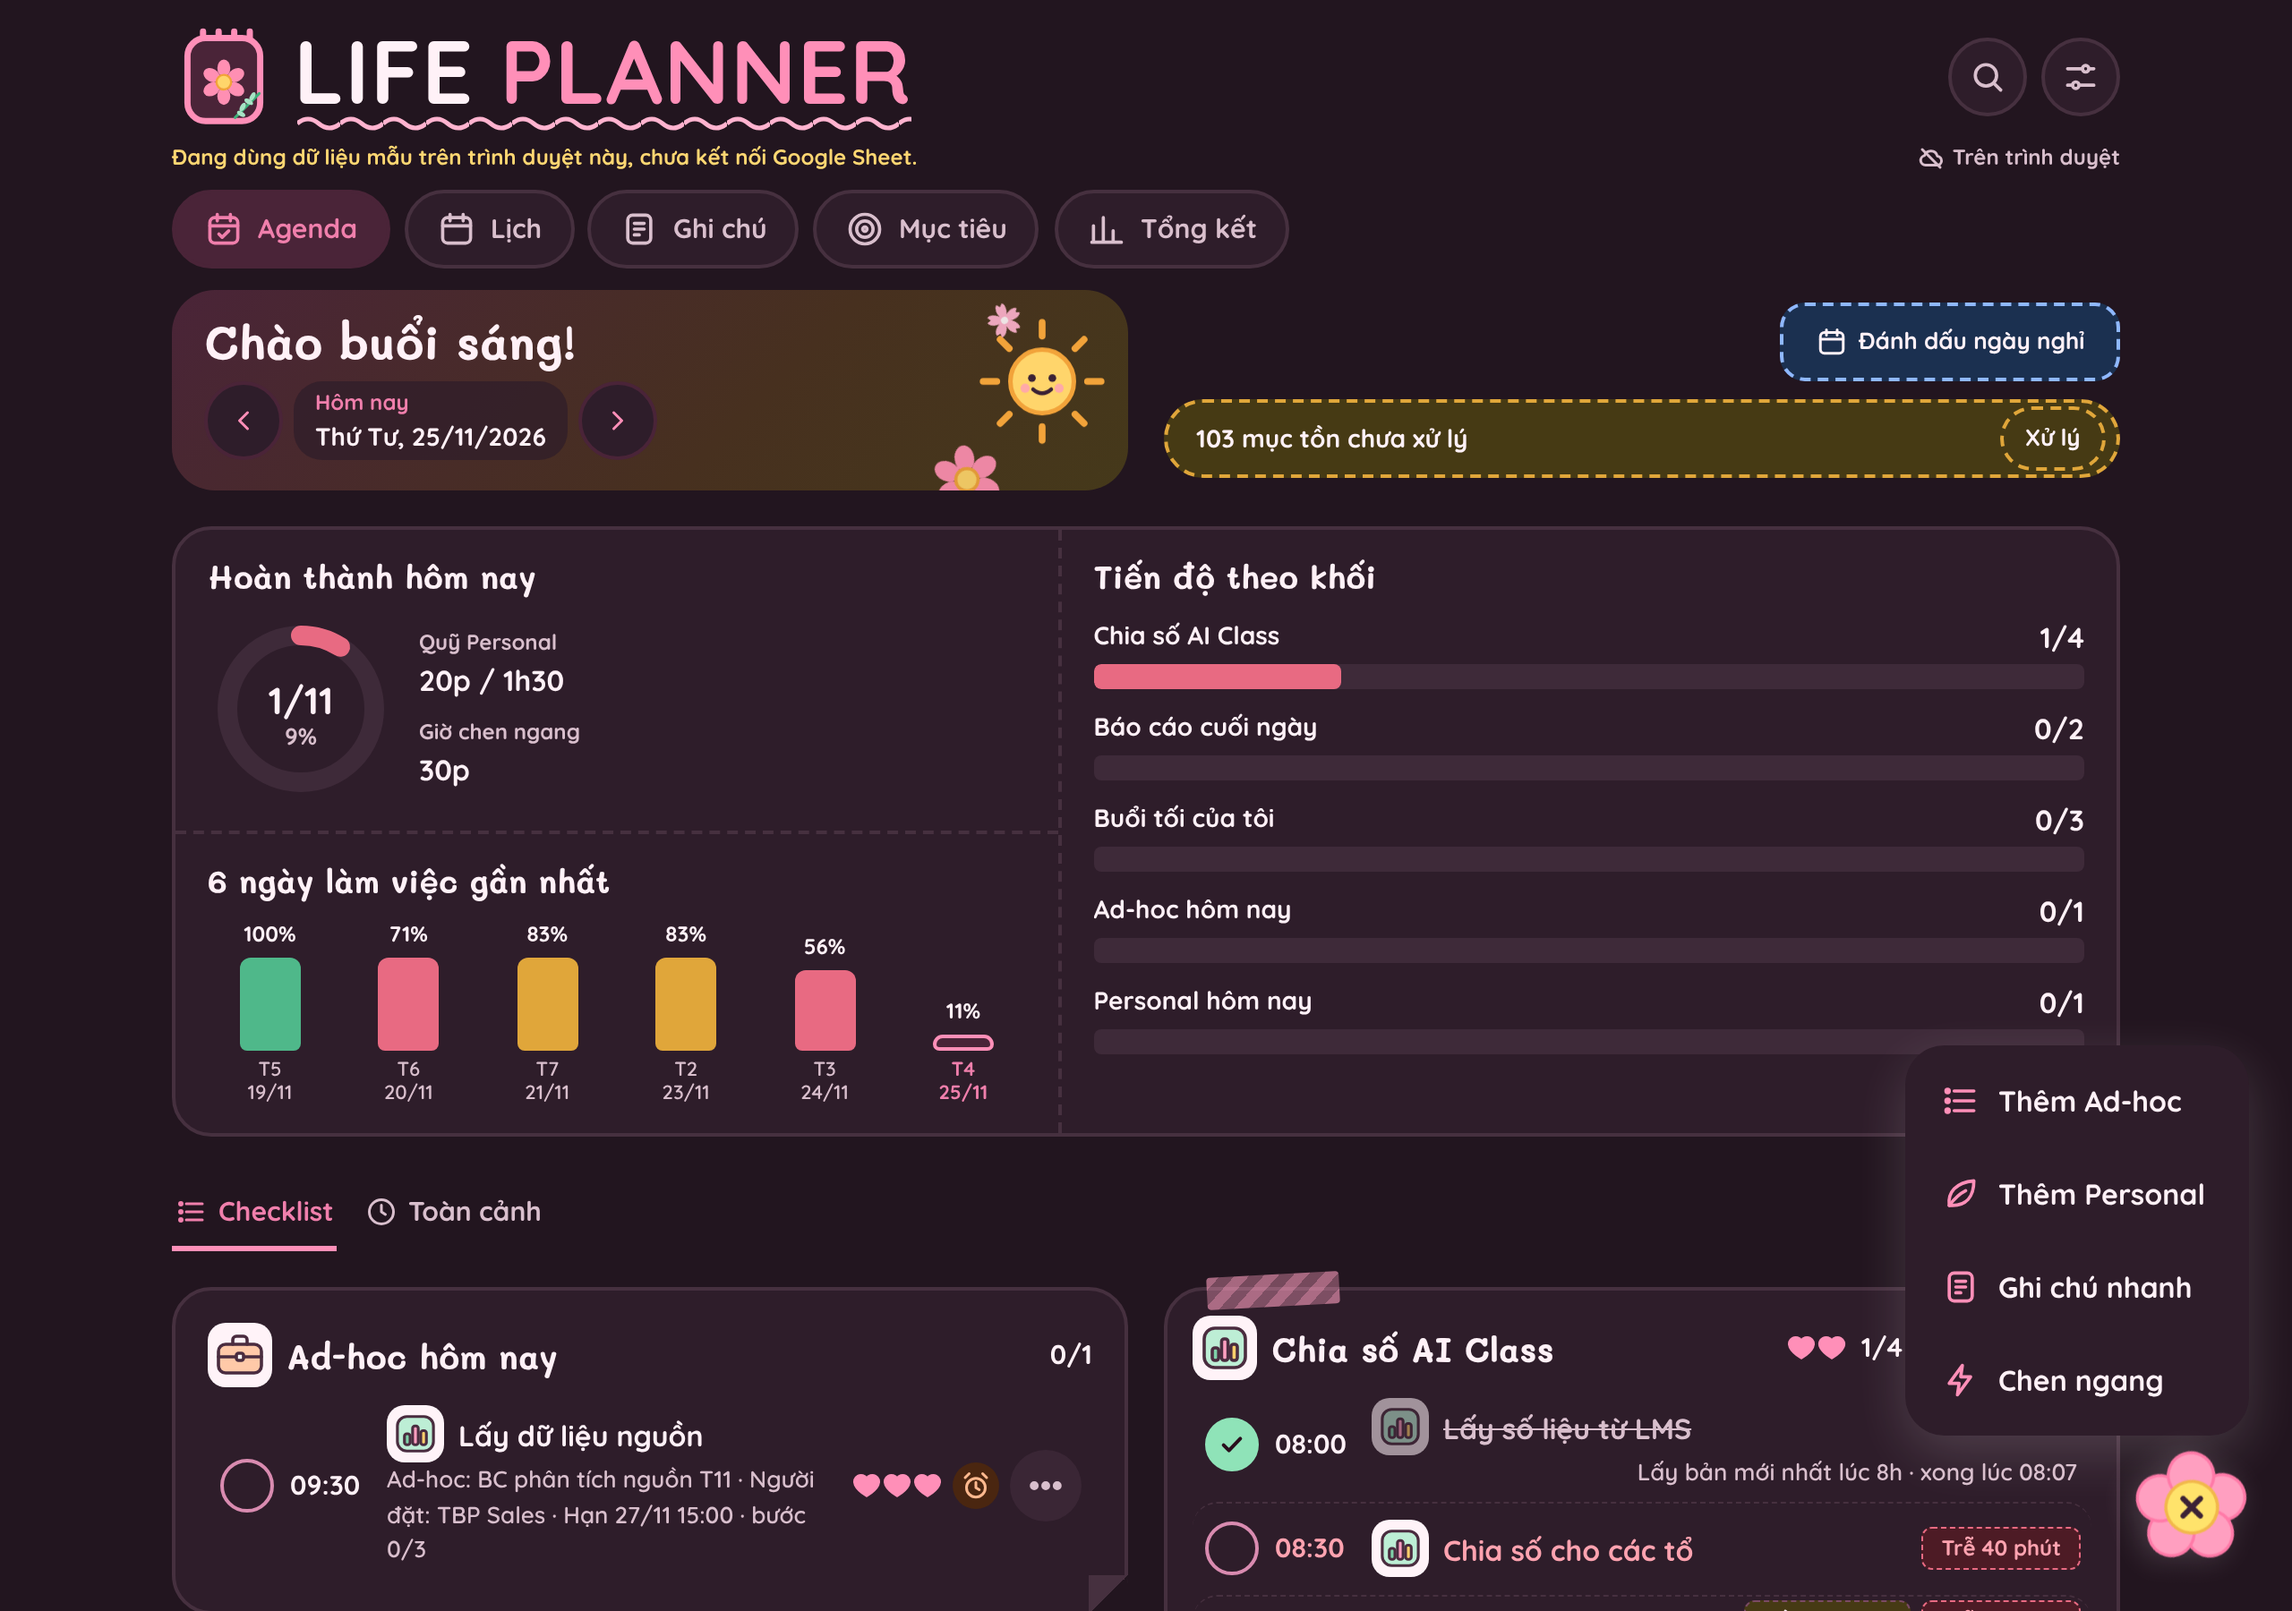
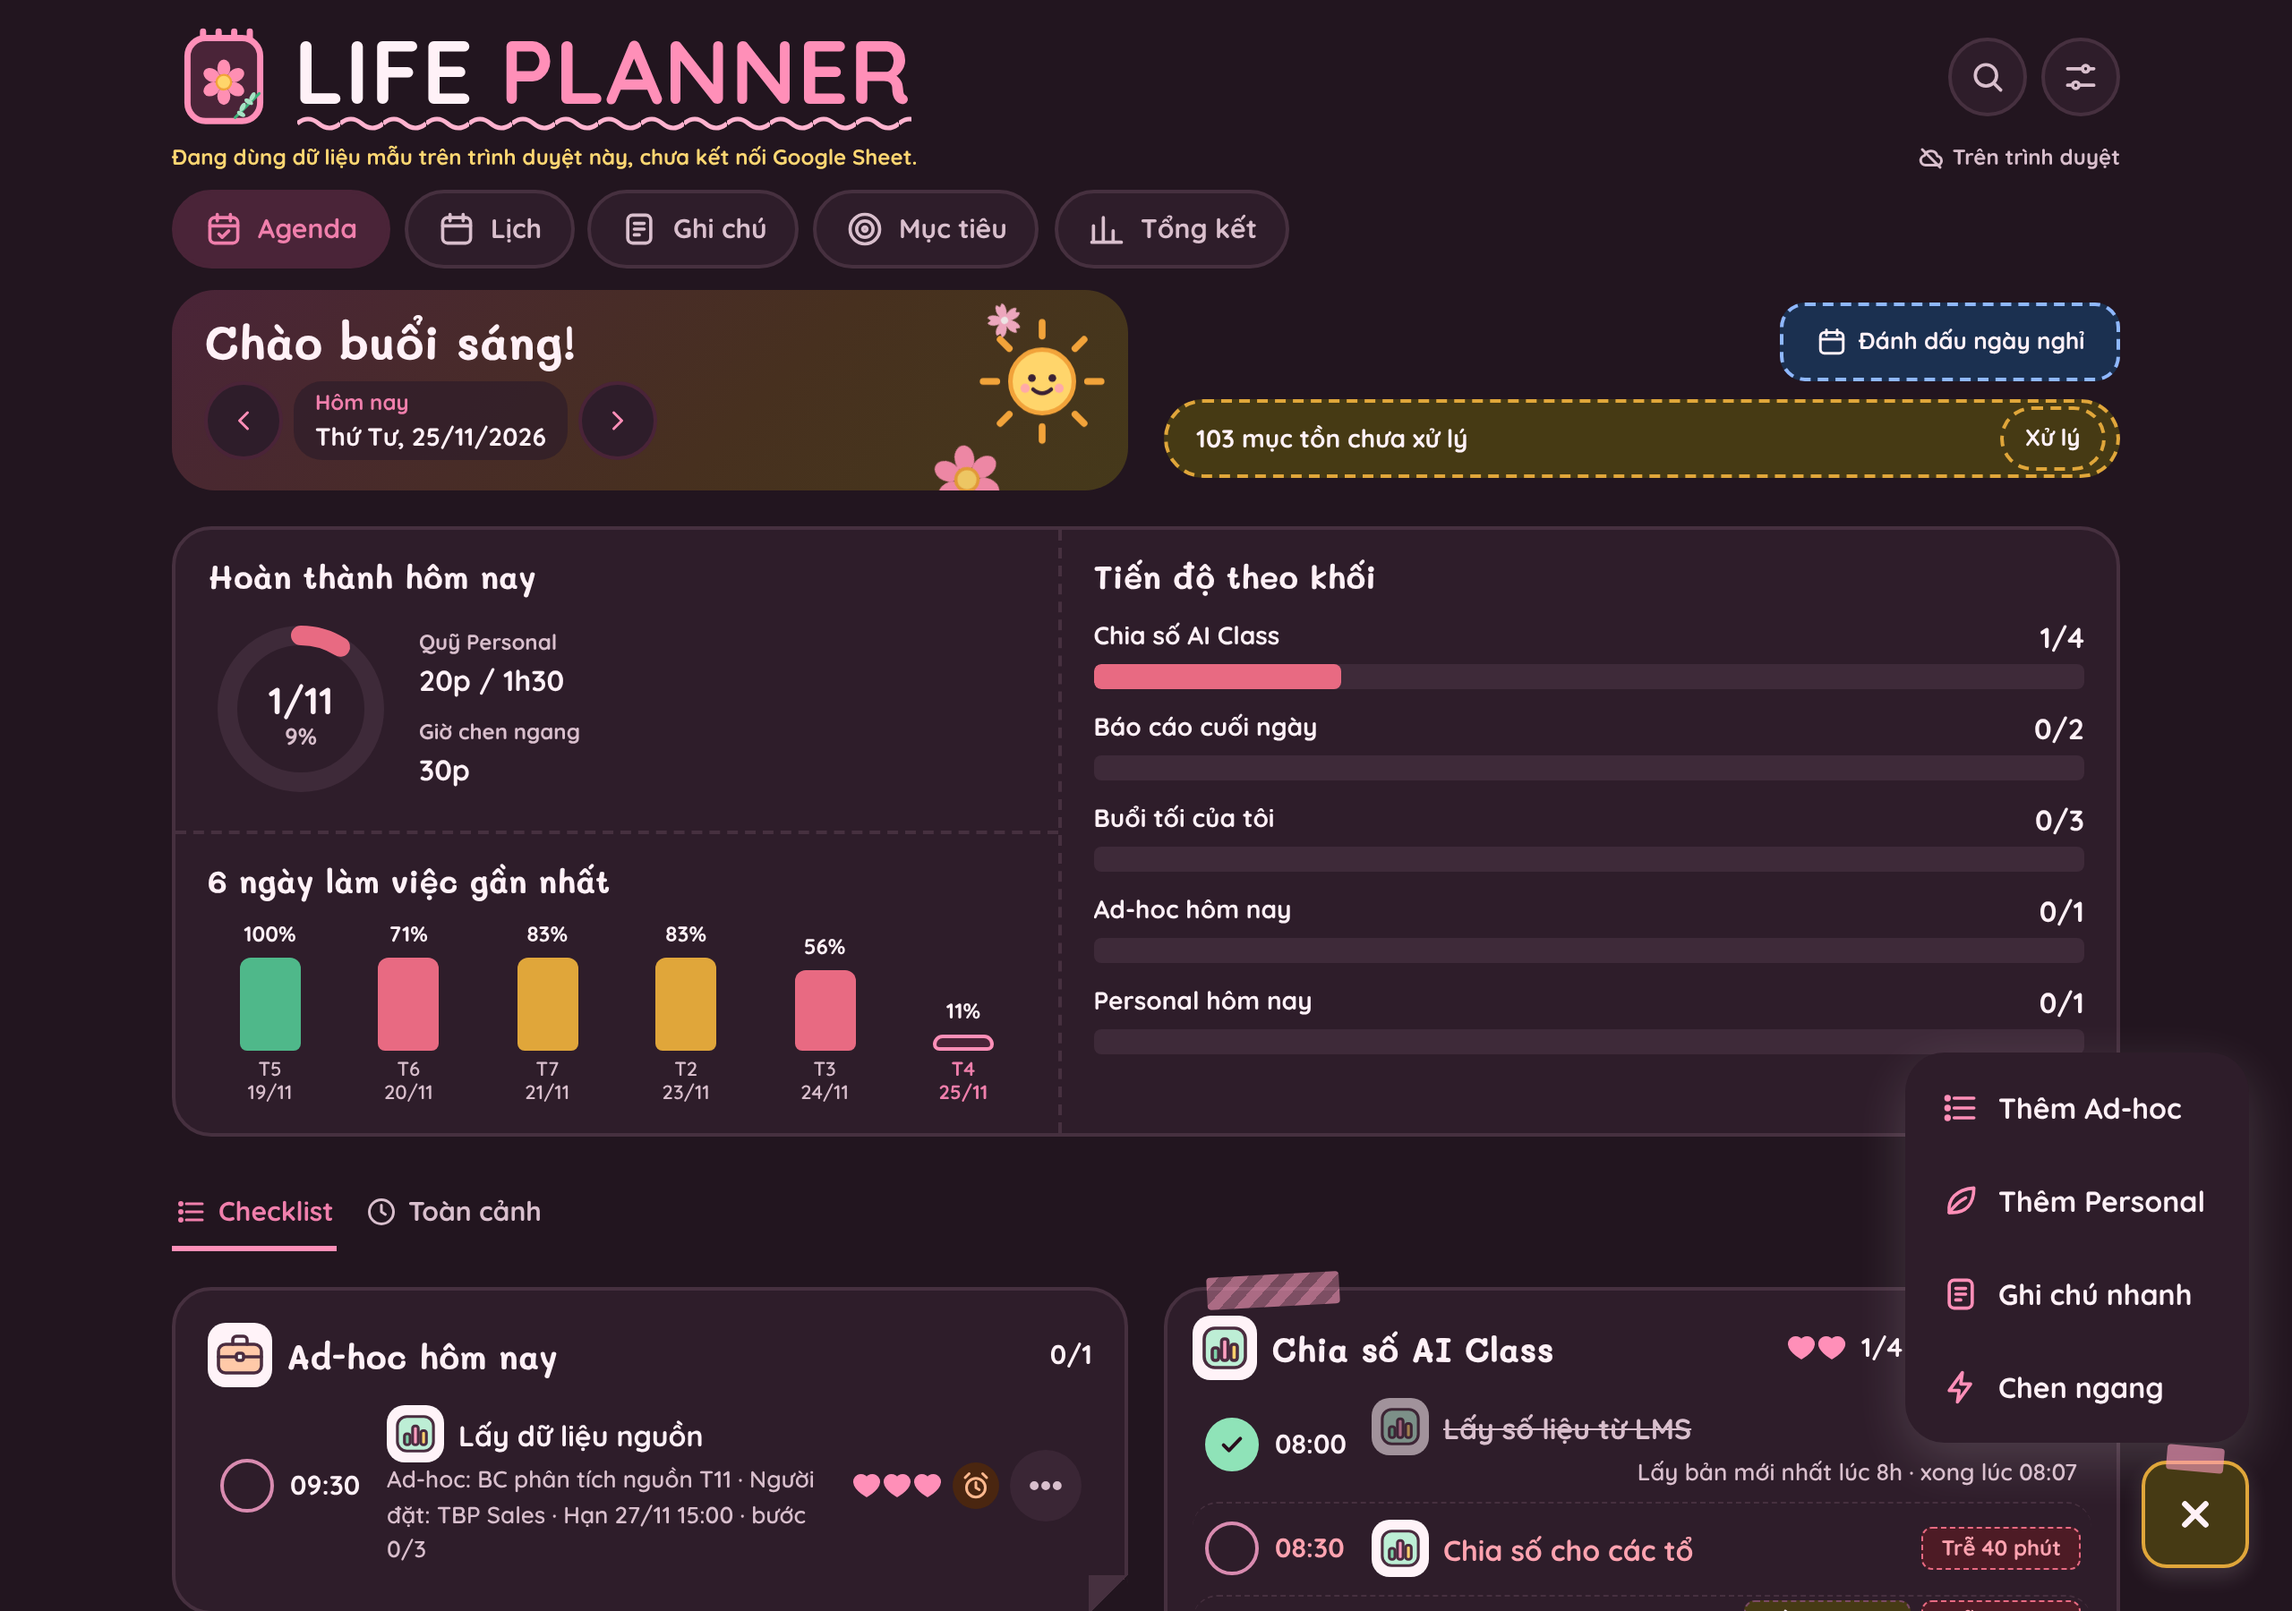
Nút + đổi sang tờ giấy note màu bơ có băng dính
Claude-Session: https://claude.ai/code/session_0149sgxtJqjnDkquQg9Zcj1E

diff --git a/src/v2/css/so-tay.css b/src/v2/css/so-tay.css
@@ -72,11 +72,14 @@ main h1,main h2,.card h2,.page-head h1,.lich-title{font-family:var(--hand);font-
 .pill-undone{border-color:var(--dash)}
 .ag-pill-due{border:1.5px dashed var(--accent)}
 
-/* Nút "+": bông hoa 5 cánh, nhụy vàng có dấu +. Mở menu thì hoa xoay. */
-.fab-main,.fab-main:active,.fab-main:hover{width:64px;height:64px;padding:0;border:0;background:transparent;box-shadow:none}
-.fab-flower{width:64px;height:64px;display:block;filter:drop-shadow(0 4px 8px color-mix(in srgb,var(--ink) 18%,transparent));transition:transform .4s var(--spring)}
-.fab-main:hover .fab-flower{transform:rotate(18deg) scale(1.06)}
-.fab-main[aria-expanded="true"] .fab-flower{transform:rotate(72deg)}
-.fab-main[aria-expanded="true"] .fab-plus{transform:rotate(-27deg);transform-origin:40px 40px}
-.fab-main:focus-visible{border-radius:99px}
-@media (prefers-reduced-motion:reduce){.fab-flower,.fab-main:hover .fab-flower,.fab-main[aria-expanded="true"] .fab-flower{transition:none;transform:none}}
+/* Nút "+": tờ giấy note màu bơ, nghiêng nhẹ, có mẩu băng dính hồng. Mở menu thì giấy thẳng lại. */
+.fab-main,.fab-main:active{position:relative;width:60px;height:60px;border-radius:14px;background:var(--butter);border:2px solid var(--pr-bar);color:var(--ink);
+  transform:rotate(-6deg);box-shadow:0 5px 12px color-mix(in srgb,var(--ink) 14%,transparent)}
+.fab-main::before{content:"";position:absolute;top:-10px;left:50%;width:32px;height:14px;margin-left:-16px;border-radius:2px;
+  background:color-mix(in srgb,var(--petal-1) 60%,transparent);transform:rotate(5deg)}
+.fab-main:hover{transform:rotate(-2deg) translateY(-2px) scale(1.05)}
+.fab-main[aria-expanded="true"]{transform:rotate(0)}
+.fab-main .icon{width:28px;height:28px;stroke-width:2.8}
+@media (prefers-reduced-motion:reduce){.fab-main:hover{transform:rotate(-6deg)!important}}
+@media (prefers-color-scheme:dark){:root:not([data-theme="light"]) .fab-main{color:var(--ink)}}
+:root[data-theme="dark"] .fab-main{color:var(--ink)}

diff --git a/src/v2/index.html b/src/v2/index.html
@@ -84,7 +84,7 @@
       <button type="button" class="fab-item" role="menuitem" data-kind="dotxuat"><svg class="icon" viewBox="0 0 24 24" aria-hidden="true"><path d="M13 3 5 14h6l-1 7 8-11h-6z"/></svg>Chen ngang</button>
     </div>
     <button type="button" class="fab-main" id="fab" aria-label="Thêm mới" aria-haspopup="true" aria-expanded="false">
-      <svg class="fab-flower" viewBox="0 0 80 80" aria-hidden="true" focusable="false"><g fill="#ff9fc0" stroke="#ff7aa8" stroke-width="2"><circle cx="40" cy="19" r="15"/><circle cx="60" cy="34" r="15"/><circle cx="52" cy="58" r="15"/><circle cx="28" cy="58" r="15"/><circle cx="20" cy="34" r="15"/></g><circle cx="40" cy="40" r="17" fill="#ffe36b" stroke="#f2b84b" stroke-width="2"/><path class="fab-plus" d="M40 32v16M32 40h16" stroke="#3b2235" stroke-width="3.6" stroke-linecap="round"/></svg>
+      <svg class="icon fab-plus" viewBox="0 0 24 24" aria-hidden="true"><path d="M12 5v14M5 12h14"/></svg>
     </button>
   </div>
 
